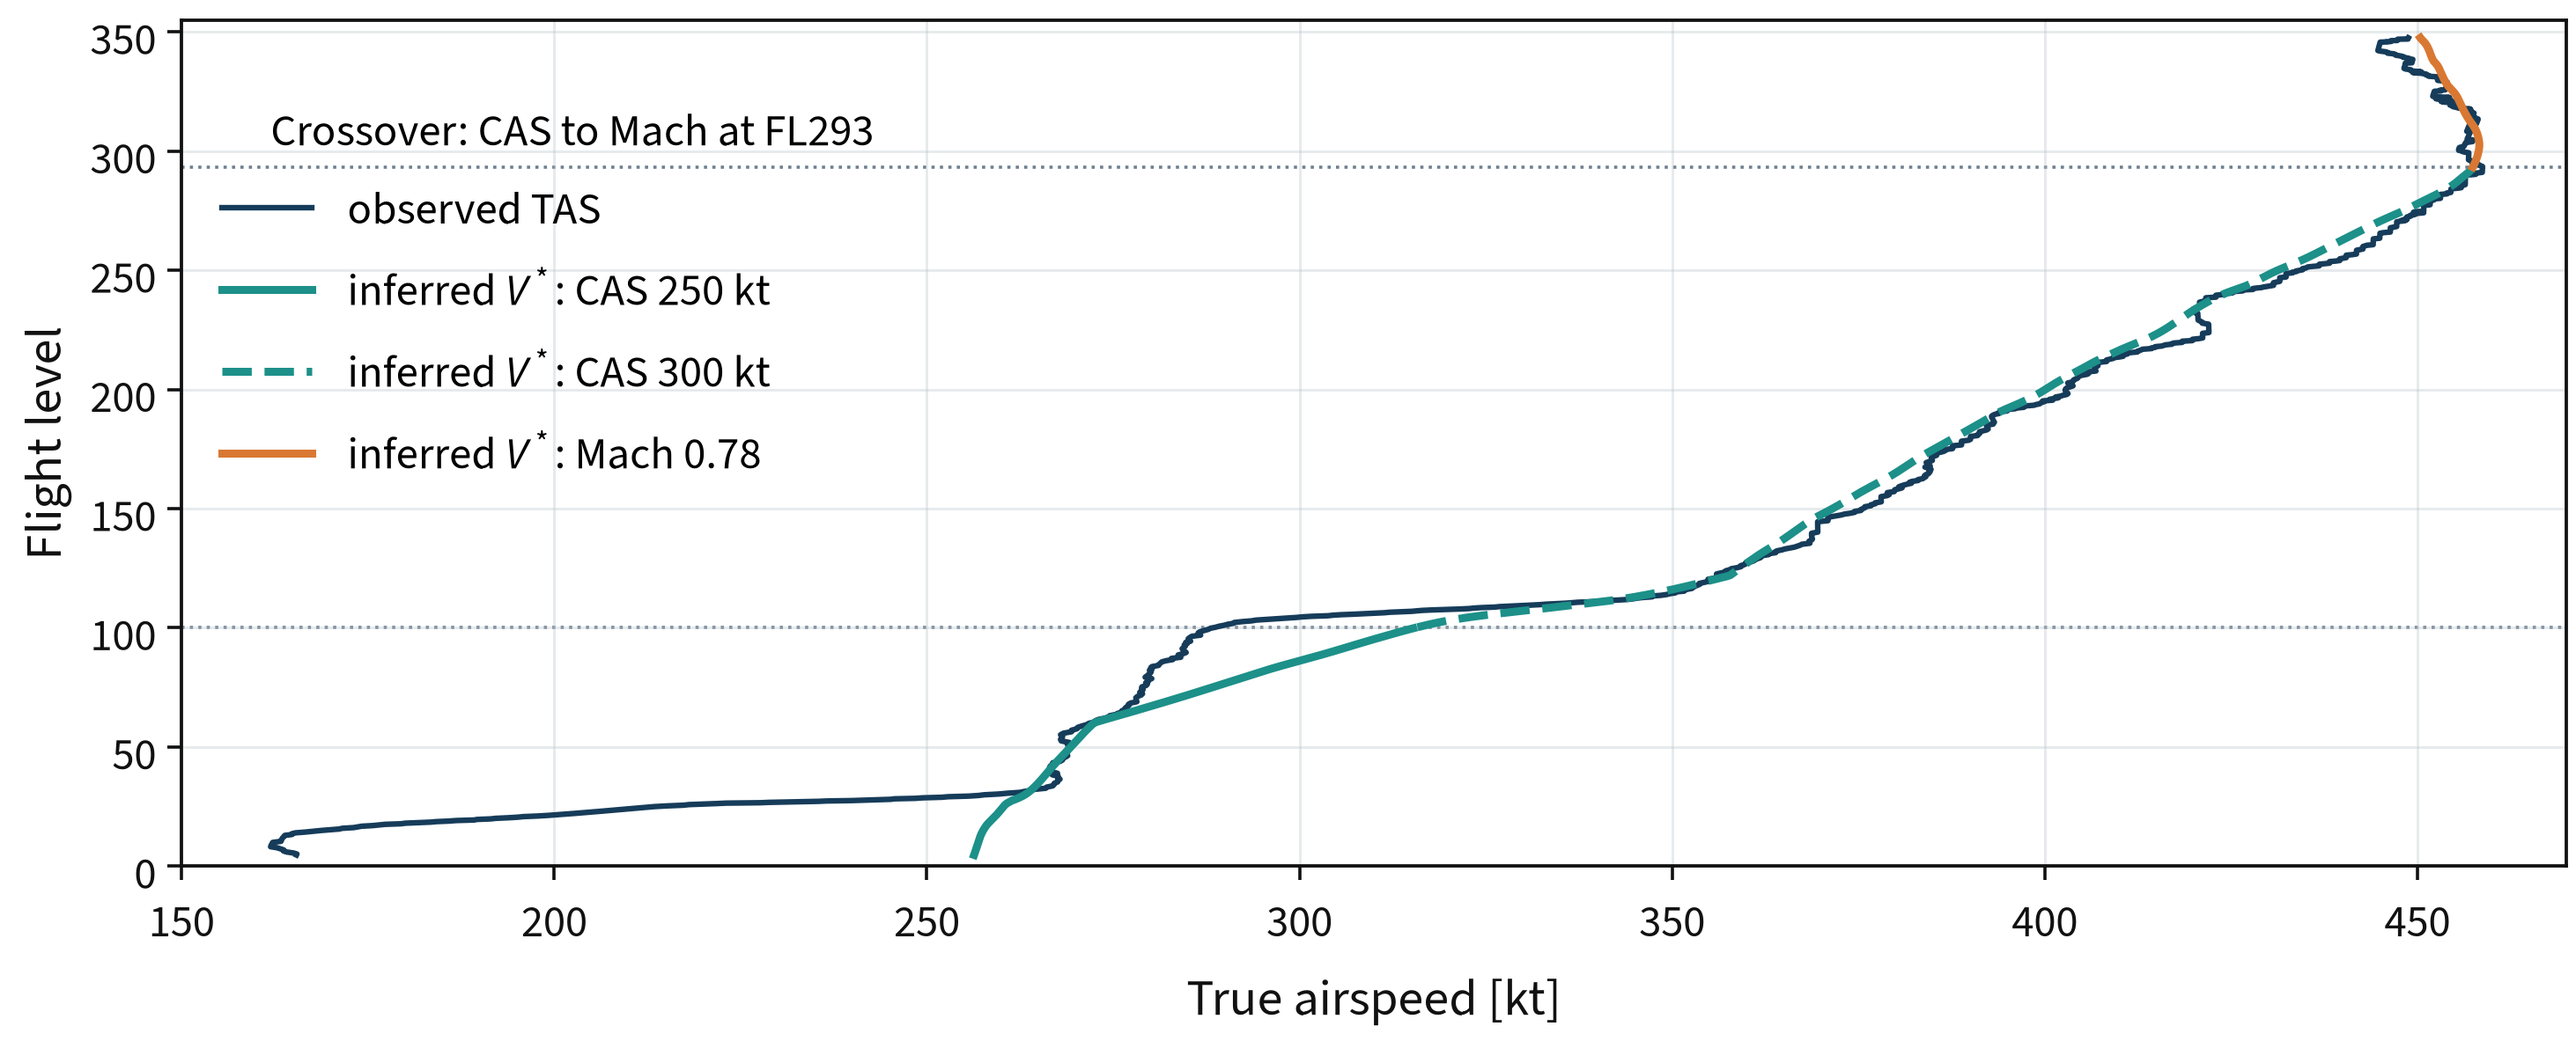
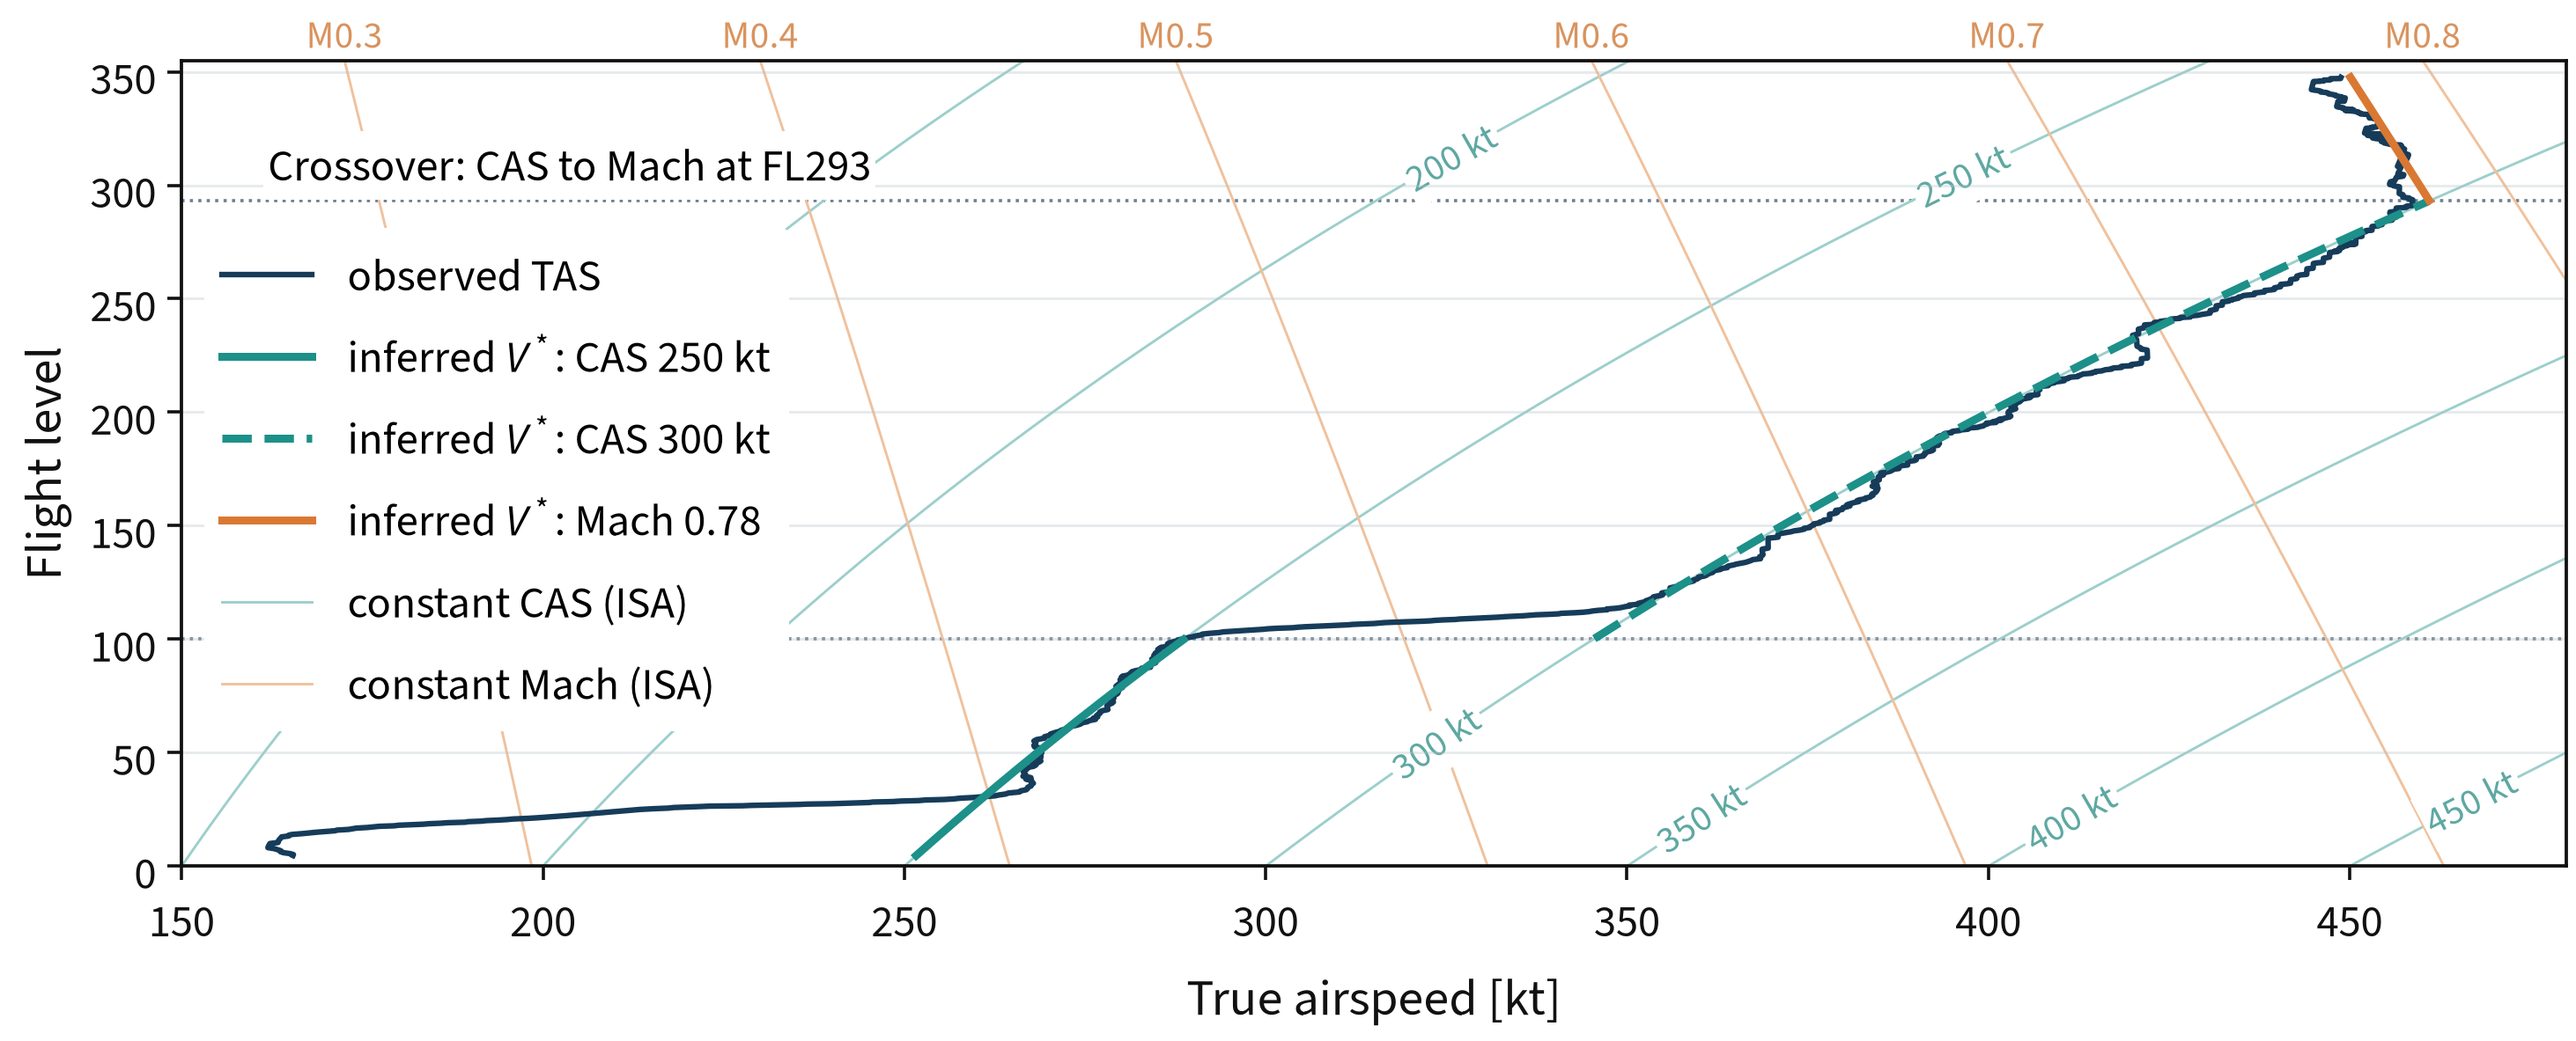
Update figures

diff --git a/docs/paper/speed_schedule.py b/docs/paper/speed_schedule.py
@@ -1,6 +1,6 @@
 """Figure 2: inferred climb speed schedule of one flight.
 
-The TAS target ``fdm_tas_target_kt`` of the command file, split by its
+The unsmoothed TAS target ``fdm_tas_target_raw_kt`` of the command file, split by its
 ``speed_regime`` and by FL100, against the observed TAS ``energy_tas_kt``,
 from the departure to the first row of the cruise plateau. The crossover is
 the first climb row flown on the Mach target.
@@ -17,12 +17,18 @@ import numpy as np
 import pandas as pd
 
 from style import (
-    ANNOTATION_SIZE, FIGURES_DIR, FULL_WIDTH_IN, GREY, NAVY, ORANGE, TEAL,
-    apply_paper_style, paper_axis, save_figure,
+    ANNOTATION_SIZE, FIGURES_DIR, FULL_WIDTH_IN, GREY, GUIDE, NAVY, ORANGE, TEAL,
+    apply_paper_style, paper_axis, printed_pt, save_figure,
 )
 from pipeline.commands import cruise_rows  # noqa: E402
 from pipeline.config import speed_band_boundary_ft  # noqa: E402
 from pipeline.routes import route_dataset_dir  # noqa: E402
+from pipeline.units import FT_TO_M, cas_to_tas_kt_isa, mach_to_tas_kt_isa  # noqa: E402
+
+ISO_CAS_KT = tuple(range(150, 451, 50))
+ISO_MACH = (0.3, 0.4, 0.5, 0.6, 0.7, 0.8, 0.9)
+ISO_CAS_COLOR = "#9ccfcb"    # light tint of TEAL, the inferred CAS
+ISO_MACH_COLOR = "#f0c19c"   # light tint of ORANGE, the inferred Mach
 
 
 def climb_to_cruise(frame: pd.DataFrame) -> pd.DataFrame:
@@ -41,22 +47,81 @@ def plot_segment(ax, tas, altitude_ft, mask, *, color, label, linestyle="-") -> 
                 linestyle=linestyle, label=label, zorder=3)
 
 
+def label_on_curve(ax, tas: np.ndarray, fl: np.ndarray, text: str, color: str,
+                   data_tas: np.ndarray, data_fl: np.ndarray, xlim: tuple[float, float]) -> None:
+    """Write ``text`` along the curve at the point farthest from the plotted data."""
+    span = (xlim[1] - xlim[0], fl.max() - fl.min())
+    inside = np.flatnonzero((tas > xlim[0] + 0.04 * span[0]) & (tas < xlim[1] - 0.04 * span[0])
+                            & (fl > fl.min() + 0.06 * span[1]) & (fl < fl.max() - 0.12 * span[1]))
+    if not inside.size:
+        return
+    gap = [np.min(np.hypot((data_tas - tas[i]) / span[0], (data_fl - fl[i]) / span[1])) for i in inside]
+    i = int(inside[int(np.argmax(gap))])
+    j = min(i + 1, tas.size - 1)
+    angle = np.degrees(np.arctan2(fl[j] - fl[i - 1], tas[j] - tas[i - 1]))
+    ax.text(tas[i], fl[i], text, rotation=angle, rotation_mode="anchor", transform_rotates_text=True,
+            ha="center", va="center", fontsize=printed_pt(6.0), color=color, zorder=1,
+            bbox=dict(boxstyle="square,pad=0.1", facecolor="white", edgecolor="none"))
+
+
+def draw_iso_speed_lines(ax, xlim: tuple[float, float], ylim: tuple[float, float]) -> list[tuple]:
+    """Constant-CAS and constant-Mach curves under ISA, the same conversion as the targets.
+
+    Mach curves are labelled above the frame; the CAS curves are returned as
+    ``(tas, fl, label)`` for :func:`label_iso_cas`, once the legend is placed."""
+    curves = []
+    fl = np.linspace(ylim[0], ylim[1], 400)
+    altitude_m = fl * 100.0 * FT_TO_M
+    label_size = printed_pt(6.0)
+    for k, cas in enumerate(ISO_CAS_KT):
+        tas = cas_to_tas_kt_isa(np.full_like(fl, cas), altitude_m)
+        ax.plot(tas, fl, color=ISO_CAS_COLOR, lw=0.8, zorder=1, label="constant CAS (ISA)" if k == 0 else None)
+        curves.append((tas, fl, f"{cas} kt"))
+    for k, mach in enumerate(ISO_MACH):
+        tas = mach_to_tas_kt_isa(np.full_like(fl, mach), altitude_m)
+        ax.plot(tas, fl, color=ISO_MACH_COLOR, lw=0.8, zorder=1, label="constant Mach (ISA)" if k == 0 else None)
+        if xlim[0] <= tas[-1] <= xlim[1]:
+            ax.text(tas[-1], ylim[1], f"M{mach:.1f}", ha="center", va="bottom", fontsize=label_size,
+                    color="#d9935e", clip_on=False)
+    return curves
+
+
+def label_iso_cas(ax, curves: list[tuple], data_tas: np.ndarray, data_fl: np.ndarray, avoid: list) -> None:
+    """Label the CAS curves away from the data and from the ``avoid`` artists (legend, text)."""
+    ax.figure.canvas.draw()
+    to_data = ax.transData.inverted()
+    xs, ys = [data_tas], [data_fl]
+    for artist in avoid:
+        (x0, y0), (x1, y1) = to_data.transform(artist.get_window_extent().expanded(1.0, 1.0).padded(25).get_points())
+        gx, gy = np.meshgrid(np.linspace(x0, x1, 30), np.linspace(y0, y1, 30))
+        xs.append(gx.ravel())
+        ys.append(gy.ravel())
+    obstacle_tas, obstacle_fl = np.concatenate(xs), np.concatenate(ys)
+    keep = np.isfinite(obstacle_tas) & np.isfinite(obstacle_fl)
+    for tas, fl, text in curves:
+        label_on_curve(ax, tas, fl, text, "#5fa8a2", obstacle_tas[keep], obstacle_fl[keep], ax.get_xlim())
+
+
 def main() -> None:
     parser = argparse.ArgumentParser(description=__doc__, formatter_class=argparse.RawDescriptionHelpFormatter)
     parser.add_argument("--route", default="EGLL_LPPT")
     parser.add_argument("--flight", default="BAW5LI_407fcb_1716130985")
+    parser.add_argument("--commands-dir", type=Path, help="folder of the command file (default: the route's)")
+    parser.add_argument("--smoothed", action="store_true", help="plot the smoothed target fdm_tas_target_kt")
     parser.add_argument("--output", type=Path, default=FIGURES_DIR / "fig_speed_schedule.png")
     args = parser.parse_args()
 
-    full = pd.read_parquet(route_dataset_dir(args.route) / "commands" / f"{args.flight}.parquet")
+    commands_dir = args.commands_dir or route_dataset_dir(args.route) / "commands"
+    full = pd.read_parquet(commands_dir / f"{args.flight}.parquet")
     frame = climb_to_cruise(full)
     fl100_ft = speed_band_boundary_ft()
     altitude_ft = frame["altitude"].to_numpy(float)
     observed_tas = frame["energy_tas_kt"].to_numpy(float)
-    target_tas = frame["fdm_tas_target_kt"].to_numpy(float)
+    target_tas = frame["fdm_tas_target_kt" if args.smoothed else "fdm_tas_target_raw_kt"].to_numpy(float)
     regime = frame["speed_regime"].astype(str).to_numpy()
     low_cas, high_cas, mach = (float(full[c].iloc[0]) for c in ("cas_climb_low_kt", "cas_climb_high_kt", "mach_cruise"))
 
+    name = r"inferred smoothed $V^*$" if args.smoothed else r"inferred $V^*$"
     valid = np.isfinite(altitude_ft) & np.isfinite(target_tas)
     on_cas = regime == "CAS"
     on_mach = regime == "Mach"
@@ -68,25 +133,31 @@ def main() -> None:
     fig, ax = plt.subplots(figsize=(FULL_WIDTH_IN, 4.55))
     ax.plot(observed_tas, altitude_ft / 100.0, color=NAVY, lw=1.75, label="observed TAS", zorder=2)
     plot_segment(ax, target_tas, altitude_ft, on_cas & (altitude_ft < fl100_ft) & valid, color=TEAL,
-                 label=fr"inferred $V^*$: CAS {low_cas:.0f} kt")
+                 label=f"{name}: CAS {low_cas:.0f} kt")
     plot_segment(ax, target_tas, altitude_ft, on_cas & (altitude_ft >= fl100_ft) & valid, color=TEAL,
-                 linestyle="--", label=fr"inferred $V^*$: CAS {high_cas:.0f} kt")
+                 linestyle="--", label=f"{name}: CAS {high_cas:.0f} kt")
     plot_segment(ax, target_tas, altitude_ft, on_mach & valid, color=ORANGE,
-                 label=fr"inferred $V^*$: Mach {mach:.2f}")
+                 label=f"{name}: Mach {mach:.2f}")
     ax.axhline(fl100_ft / 100.0, color=GREY, lw=1.0, ls=":", zorder=1)
     ax.axhline(crossover_ft / 100.0, color=GREY, lw=1.0, ls=":", zorder=1)
-    ax.text(np.nanmin(observed_tas), crossover_ft / 95.0,
-            f"Crossover: CAS to Mach at FL{int(round(crossover_ft / 100))}",
-            va="center", ha="left", fontsize=ANNOTATION_SIZE, color="#000000")
+    crossover_text = ax.text(np.nanmin(observed_tas), crossover_ft / 95.0,
+                             f"Crossover: CAS to Mach at FL{int(round(crossover_ft / 100))}",
+                             va="center", ha="left", fontsize=ANNOTATION_SIZE, color="#000000", zorder=2,
+                             bbox=dict(boxstyle="square,pad=0.1", facecolor="white", edgecolor="none"))
 
     speeds = np.concatenate([observed_tas[np.isfinite(observed_tas)], target_tas[valid]])
     ax.set_xlim(np.floor(speeds.min() / 10.0) * 10.0 - 10.0, np.ceil(speeds.max() / 10.0) * 10.0 + 10.0)
     ax.set_ylim(max(0.0, np.floor(np.nanmin(altitude_ft) / 5000.0) * 50.0 - 5.0),
                 np.ceil(np.nanmax(altitude_ft) / 5000.0) * 50.0 + 5.0)
+    iso_cas = draw_iso_speed_lines(ax, ax.get_xlim(), ax.get_ylim())
     ax.set_xlabel("True airspeed [kt]")
     ax.set_ylabel("Flight level")
     paper_axis(ax)
-    ax.legend(loc="upper left", bbox_to_anchor=(0.0, 0.86))
+    ax.xaxis.grid(False)
+    legend = ax.legend(loc="upper left", bbox_to_anchor=(0.0, 0.82), frameon=True, facecolor="white",
+                       edgecolor="none", framealpha=1.0)
+    label_iso_cas(ax, iso_cas, np.concatenate([observed_tas, target_tas]),
+                  np.concatenate([altitude_ft, altitude_ft]) / 100.0, [legend, crossover_text])
     save_figure(fig, args.output)
     plt.close(fig)
     print(f"wrote {args.output}")

diff --git a/docs/paper/target_path_walk.py b/docs/paper/target_path_walk.py
@@ -110,7 +110,7 @@ def plot(steps: list[dict], qnh_levels: set[float], path: Path) -> None:
             return "landing"
         return f"{h:,.0f} ft" if h in qnh_levels else f"FL{h / 100:.0f}"
 
-    label_box = {"facecolor": "white", "alpha": 0.8, "lw": 0, "pad": 0.4}
+    label_box = {"facecolor": "white", "alpha": 1.0, "lw": 0, "pad": 0.4}  # opaque: the path passes behind a label, not through its text
     apply_paper_style()
     fig, ax = plt.subplots(figsize=(FULL_WIDTH_IN, 4.1))
     prev = None

diff --git a/docs/paper/h_sel_tau_example.py b/docs/paper/h_sel_tau_example.py
@@ -68,7 +68,7 @@ def main() -> None:
     ax.set_xlim(*VIEW_MIN)
     ax.set_ylim(0, 42000)
     ax.yaxis.set_major_formatter(FuncFormatter(lambda v, _: f"{v:,.0f}"))
-    ax.legend(loc="lower right")
+    ax.legend(loc="lower right", bbox_to_anchor=(0.9, 0.0))  # clear of the dashed line at the end of the plateau
     save_figure(fig, args.output)
     print(f"wrote {args.output}")
 
